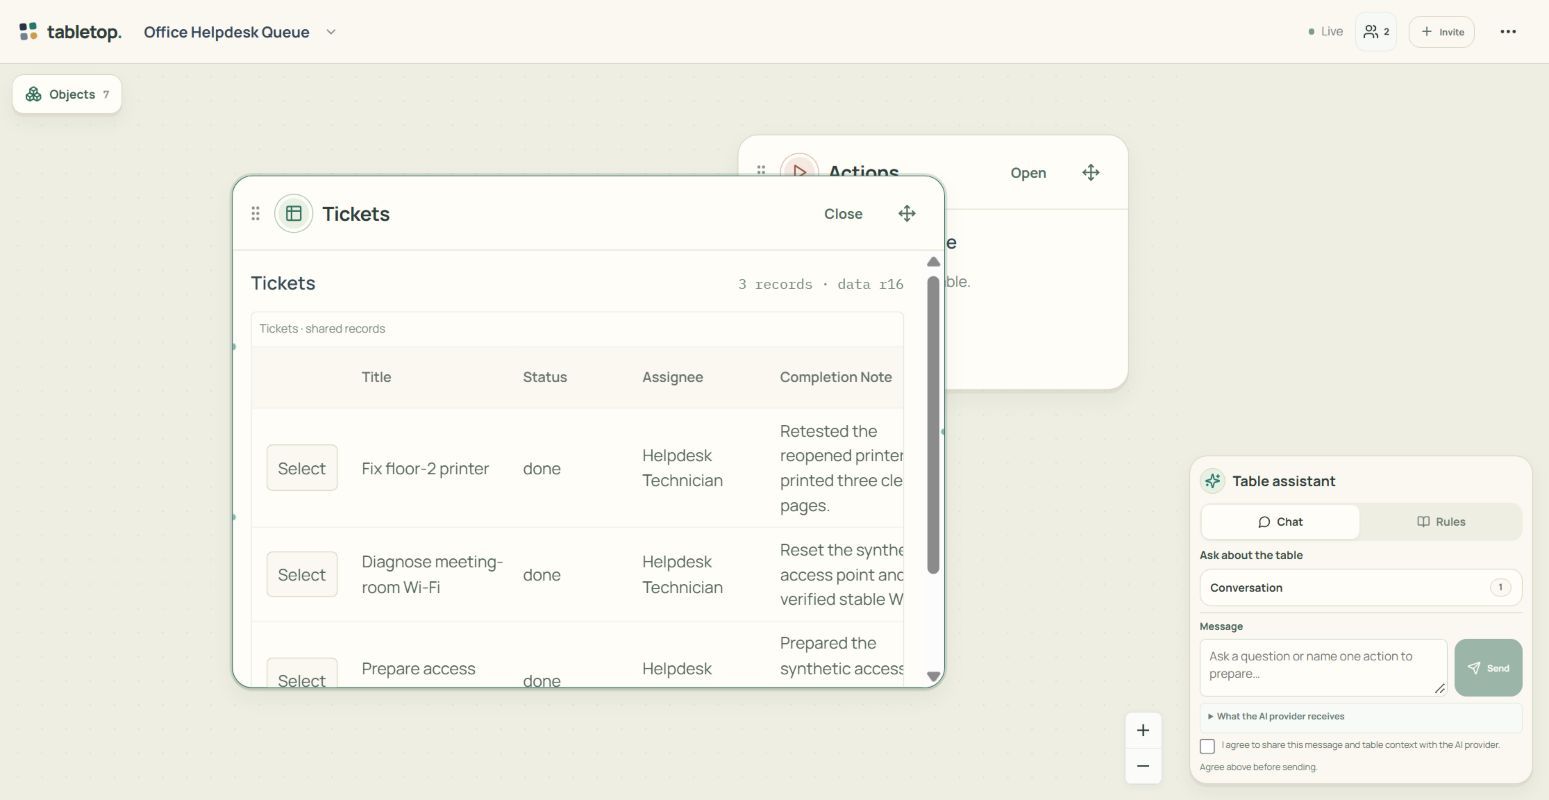
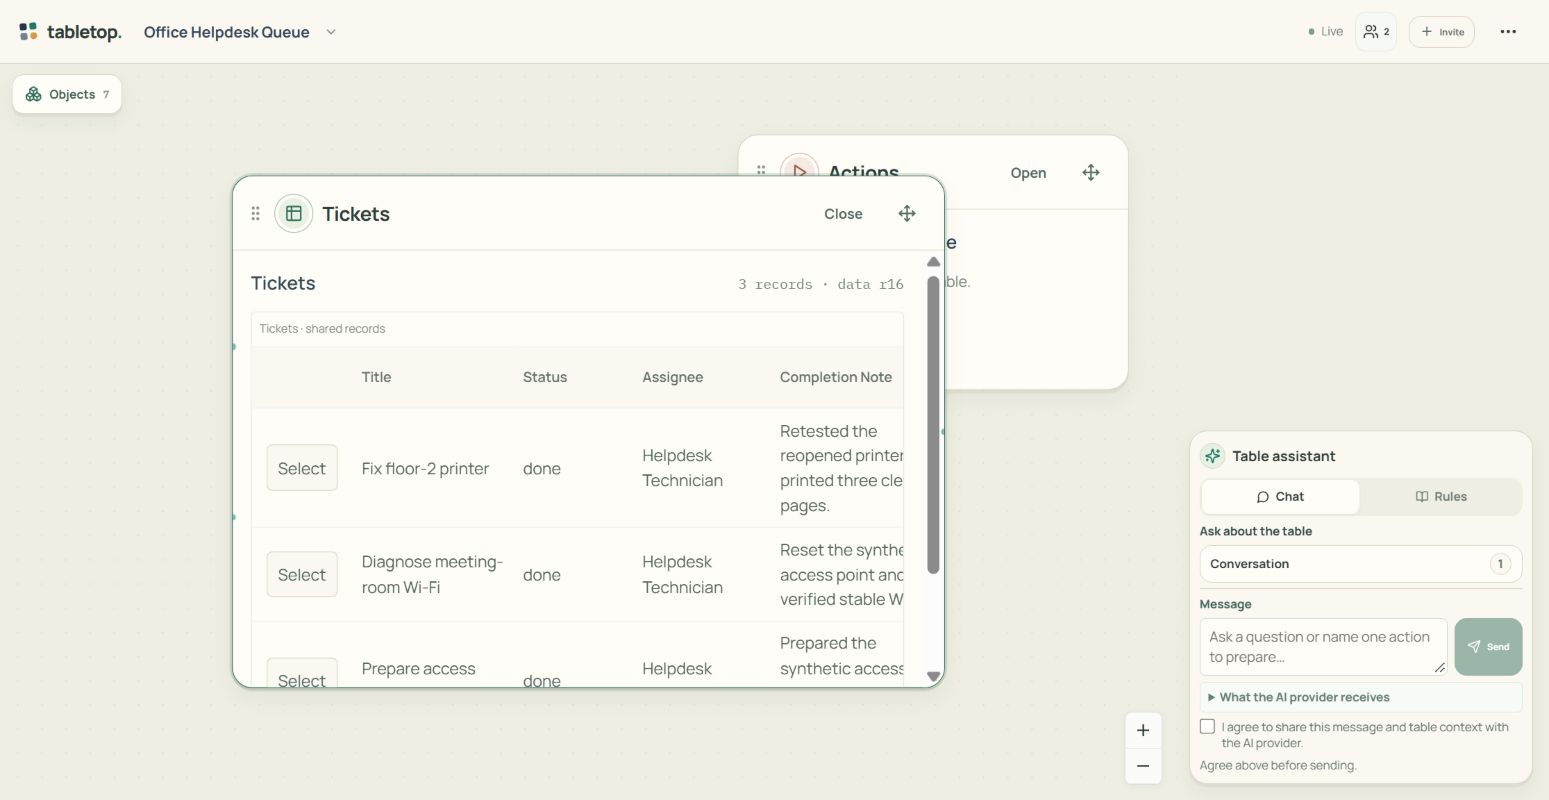
Keep assistant text readable and update browser navigation checks

Changed region(s): [[0.7747, 0.5625, 0.9916, 0.9688], [0.8986, 0.5938, 0.9606, 0.6562]]

diff --git a/src/tabletop/ui/assistant-calm.css b/src/tabletop/ui/assistant-calm.css
@@ -48,7 +48,7 @@
   border-radius: 999px;
   color: #416a55;
   background: #f5faf6;
-  font-size: 10px;
+  font-size: var(--tt-type-small);
   line-height: 1.3;
   text-align: center;
 }
@@ -61,7 +61,7 @@
 
 .tt-app .tt-table-assistant__modes > button {
   min-height: 34px;
-  font-size: 11px;
+  font-size: var(--tt-type-small);
 }
 
 .tt-app .tt-table-assistant__rules-mode {
@@ -85,7 +85,7 @@
   align-items: center;
   padding: 0 9px;
   color: #5f7569;
-  font-size: 10px;
+  font-size: var(--tt-type-small);
   font-weight: 700;
   cursor: pointer;
 }
@@ -112,14 +112,14 @@
   flex: 1 1 auto;
   justify-content: center;
   padding-inline: 8px;
-  font-size: 10px;
+  font-size: var(--tt-type-small);
 }
 
 .tt-app .tt-table-assistant__waiting {
   flex: 0 0 auto;
   margin: 0;
   padding: 7px 8px;
-  font-size: 10px;
+  font-size: var(--tt-type-small);
   line-height: 1.4;
 }
 
@@ -139,13 +139,13 @@
 }
 
 .tt-app .tt-table-chat__intro h3 {
-  font-size: 12px;
+  font-size: var(--tt-type-small);
 }
 
 .tt-app .tt-table-chat__intro p {
   margin: 0;
   color: var(--tt-muted);
-  font-size: 10px;
+  font-size: var(--tt-type-small);
   line-height: 1.4;
 }
 
@@ -157,7 +157,7 @@
   justify-content: space-between;
   gap: 8px;
   color: #78877f;
-  font-size: 9px;
+  font-size: var(--tt-type-small);
   line-height: 1.3;
 }
 
@@ -171,13 +171,13 @@
   min-height: 28px;
   flex: 0 0 auto;
   padding-inline: 8px;
-  font-size: 9px;
+  font-size: var(--tt-type-small);
 }
 
 .tt-app .tt-table-chat__notice {
   flex: 0 0 auto;
   padding: 6px 8px;
-  font-size: 9px;
+  font-size: var(--tt-type-small);
   line-height: 1.4;
 }
 
@@ -202,17 +202,17 @@
   min-height: 28px;
   align-self: flex-start;
   padding-inline: 8px;
-  font-size: 9px;
+  font-size: var(--tt-type-small);
 }
 
 .tt-app .tt-table-chat__empty {
   align-self: center;
   margin: auto;
-  font-size: 10px;
+  font-size: var(--tt-type-small);
 }
 
 .tt-app .tt-table-chat__empty p {
-  font-size: 10px;
+  font-size: var(--tt-type-small);
 }
 
 .tt-app .tt-table-chat__form {
@@ -228,7 +228,7 @@
 
 .tt-app .tt-table-chat__form > label:first-child {
   color: #456357;
-  font-size: 10px;
+  font-size: var(--tt-type-small);
   line-height: 1.3;
 }
 
@@ -248,10 +248,19 @@
   padding: 8px 9px;
   border-color: #ccdcd2;
   border-radius: 6px;
-  font-size: 12px;
+  font-size: var(--tt-type-body);
   line-height: 1.45;
   resize: vertical;
 }
+
+.tt-app .tt-table-chat__user > p,
+.tt-app .tt-table-chat__answer > p { font-size: var(--tt-type-body); }
+.tt-app .tt-table-chat__user > span,
+.tt-app .tt-table-chat__answer-label > strong,
+.tt-app .tt-table-chat__references > button,
+.tt-app .tt-table-chat__action-preview > strong,
+.tt-app .tt-table-chat__action-preview > div,
+.tt-app .tt-table-chat__action-preview > p { font-size: var(--tt-type-small); }
 
 .tt-app .tt-table-chat__compose-row textarea:disabled {
   color: #7b8882;
@@ -264,7 +273,7 @@
   min-height: 58px;
   align-self: stretch;
   padding: 0 10px;
-  font-size: 10px;
+  font-size: var(--tt-type-small);
 }
 
 .tt-app .tt-table-chat__privacy {
@@ -276,7 +285,7 @@
 .tt-app .tt-table-chat__privacy > summary {
   min-height: 29px;
   padding: 7px 8px;
-  font-size: 9px;
+  font-size: var(--tt-type-small);
   line-height: 1.3;
 }
 
@@ -293,14 +302,14 @@
   border-radius: 6px;
   background: #fff;
   box-shadow: 0 6px 18px #2435481a;
-  font-size: 9px;
+  font-size: var(--tt-type-small);
   line-height: 1.45;
 }
 
 .tt-app .tt-table-chat__consent {
   align-items: flex-start;
   gap: 6px;
-  font-size: 9px;
+  font-size: var(--tt-type-small);
   line-height: 1.35;
 }
 
@@ -313,7 +322,7 @@
 .tt-app .tt-table-chat__send-help {
   margin: 0;
   color: #697a70;
-  font-size: 9px;
+  font-size: var(--tt-type-small);
   line-height: 1.35;
 }
 
@@ -323,7 +332,7 @@
 
 .tt-app .tt-table-chat__answer-actions .tt-button {
   min-height: 38px;
-  font-size: 10px;
+  font-size: var(--tt-type-small);
 }
 
 @media (max-width: 760px) {
@@ -358,11 +367,11 @@
   }
 
   .tt-app .tt-table-chat__intro h3 {
-    font-size: 11px;
+    font-size: var(--tt-type-small);
   }
 
   .tt-app .tt-table-chat__intro p {
-    font-size: 9px;
+    font-size: var(--tt-type-small);
   }
 
   .tt-app .tt-table-chat__thread {
@@ -396,7 +405,7 @@
   }
 
   .tt-app .tt-table-chat__consent {
-    font-size: 8.5px;
+    font-size: var(--tt-type-small);
   }
 }
 
@@ -430,7 +439,7 @@
 .tt-app .tt-table-assistant.is-compact .tt-table-assistant__turn {
   margin-left: auto;
   padding: 4px 7px;
-  font-size: 9px;
+  font-size: var(--tt-type-small);
 }
 
 .tt-app .tt-table-assistant.is-compact .tt-table-assistant__modes {
@@ -442,7 +451,7 @@
 
 .tt-app .tt-table-assistant.is-compact .tt-table-assistant__modes > button {
   min-height: 34px;
-  font-size: 11px;
+  font-size: var(--tt-type-small);
 }
 
 .tt-app .tt-table-assistant.is-compact > .tt-table-assistant__rules-mode {
@@ -468,7 +477,7 @@
 }
 
 .tt-app .tt-table-assistant.is-compact .tt-table-chat__intro h3 {
-  font-size: 11px;
+  font-size: var(--tt-type-small);
 }
 
 .tt-app .tt-table-assistant.is-compact .tt-table-chat__intro p {
@@ -496,7 +505,7 @@
   gap: 10px;
   padding: 6px 10px;
   color: var(--tt-ink);
-  font-size: 11px;
+  font-size: var(--tt-type-small);
   font-weight: 650;
   cursor: pointer;
 }
@@ -513,7 +522,7 @@
   border-radius: 999px;
   color: var(--tt-muted);
   background: var(--tt-cream-1);
-  font-size: 9px;
+  font-size: var(--tt-type-small);
   line-height: 1.2;
   text-align: center;
 }
